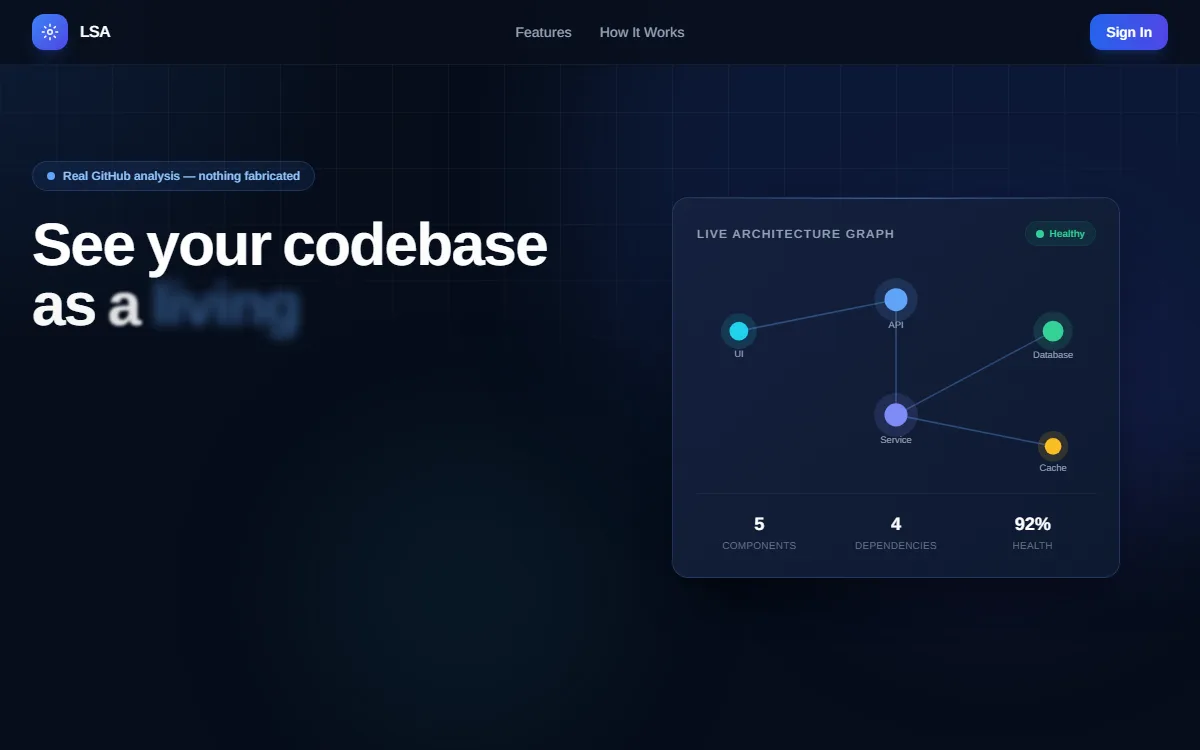
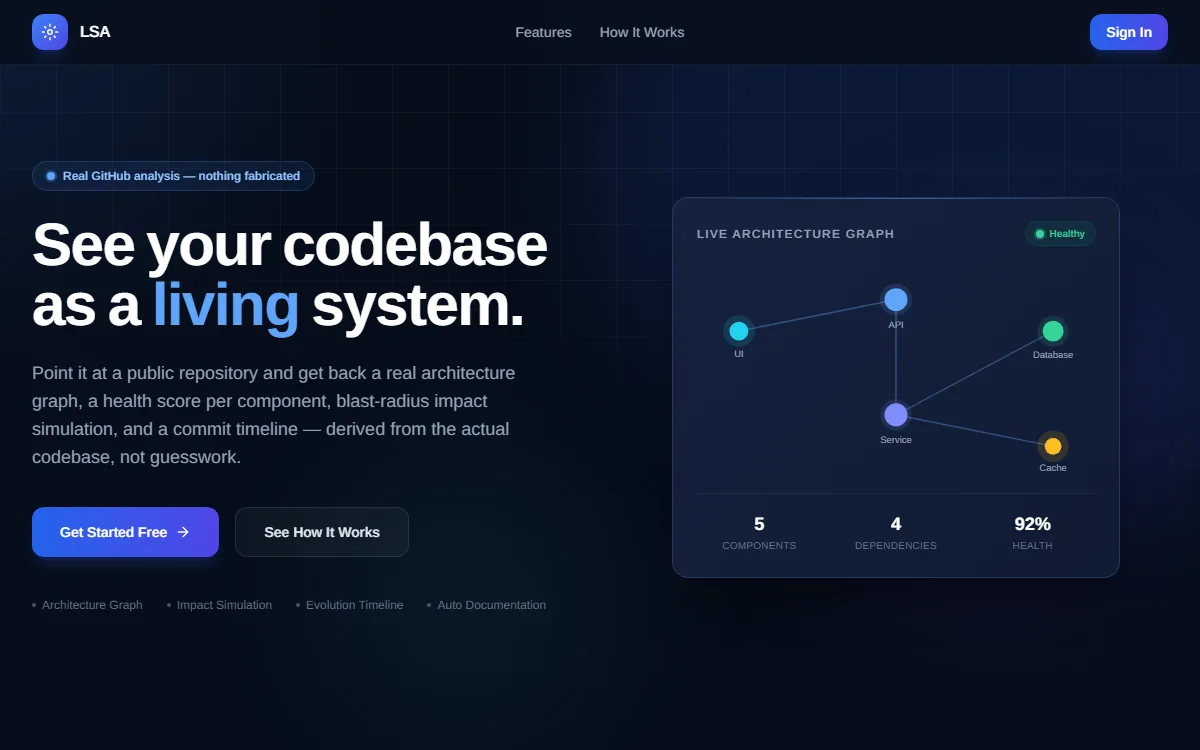
project updated

diff --git a/client/src/components/layouts/Projects.tsx b/client/src/components/layouts/Projects.tsx
@@ -30,9 +30,9 @@ interface Project {
   github: string | null;
 }
 
-/* Order matches the resume — HelpGhar → AI Dataset Cleaner → CodeChronicle →
-   Student Performance Intelligence — with ServiceHub last, since it is the one
-   build the resume doesn't list. */
+/* Order matches the resume — HelpGhar → AI Dataset Cleaner → PinKaroo →
+   CodeChronicle → Student Performance Intelligence — with ServiceHub last,
+   since it is the one build the resume doesn't list. */
 const PROJECTS: Project[] = [
   {
     id: "helpghar",
@@ -74,6 +74,27 @@ const PROJECTS: Project[] = [
     icon: "◆",
     preview: "dataset-cleaner",
     liveDemo: "https://raw2ready-ai.streamlit.app/",
+    github: null,
+  },
+  {
+    id: "pinkaroo",
+    name: "PinKaroo",
+    subtitle: "Self-Hosted Uptime Monitoring",
+    year: "2026",
+    description:
+      "Free, self-hosted uptime monitor — register an account, add the URLs to watch, and a GitHub Actions cron job pings each one on schedule, recording status code, response time and uptime history on a live dashboard.",
+    features: [
+      "Per-monitor check intervals on a FastAPI + MongoDB backend, no queue or worker process",
+      "GitHub Actions cron drives every ping — the backend stays stateless between checks",
+      "Live dashboard with self-counting monitor cards that refetch right after each check",
+      "JWT-scoped accounts keep every user's monitors and history fully isolated",
+    ],
+    gradient: "linear-gradient(135deg, #0a0a1a 0%, #12122a 42%, #1a1a3a 100%)",
+    accent: "#818CF8",
+    tags: ["Next.js", "FastAPI", "MongoDB", "GitHub Actions"],
+    icon: "⬢",
+    preview: "pinkaroo",
+    liveDemo: "https://pin-karoo.vercel.app/",
     github: null,
   },
   {
